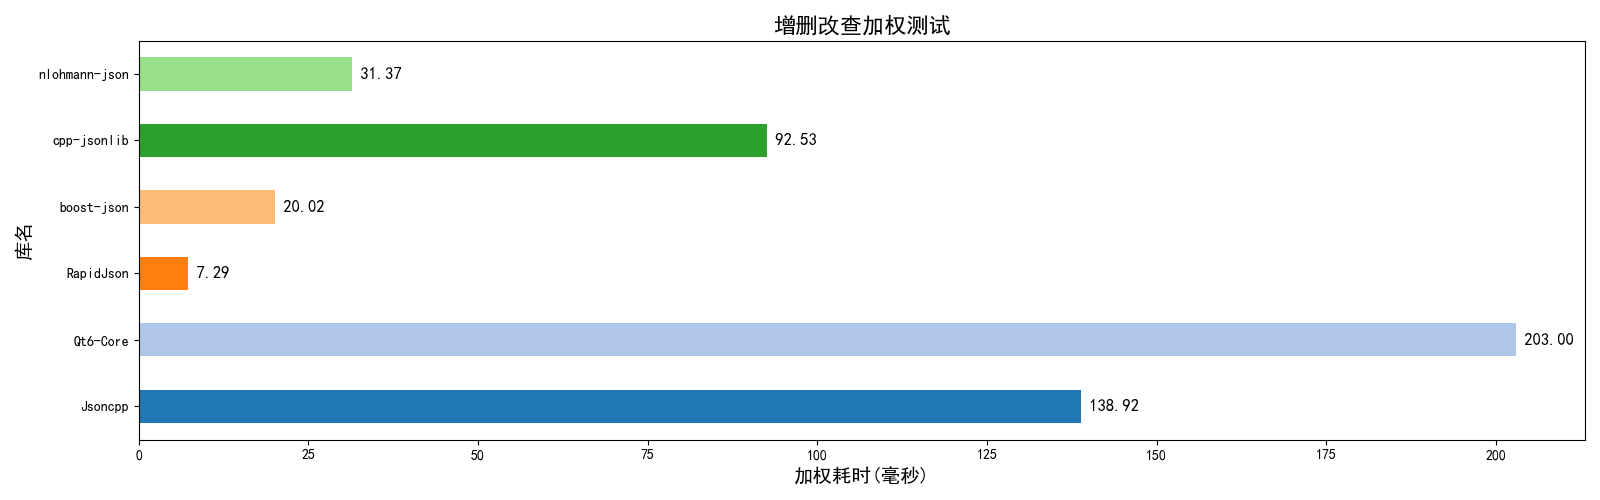
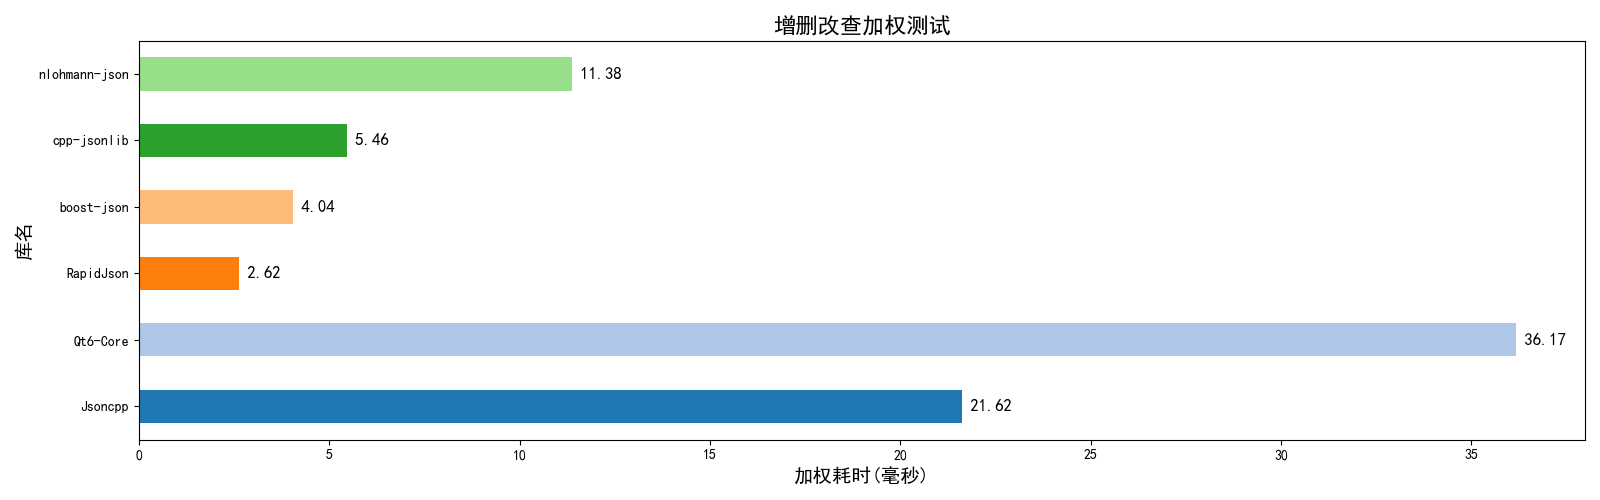
添加Release模式，跟新cpp-jsonlib库测试

diff --git a/test_codes/test_cpp-jsonlib.cpp b/test_codes/test_cpp-jsonlib.cpp
@@ -14,7 +14,7 @@
 class CppJsonlibObj : public JsonBase{
 public:
     // 存放库中JSON可操作对象的类型
-    Json::JsonBasic json;
+    Jsonlib::JsonValue json;
 };
     
 //// 1.2. 重写StringBase类，内部存放你的库的字符串类。如果支持std::string,就直接使用std::string.
@@ -49,39 +49,37 @@ boolenNum : 全体元素中，bool类型的数量
 nullNum : 全体元素中，null的数量
 */ 
 // 例：
-static void get_element_num(const Json::JsonBasic& jsonBasic, JsonCounter& counter){
-    switch (jsonBasic.type())
+static void get_element_num(const Jsonlib::JsonValue& json, JsonCounter& counter){
+    switch (json.type())
     {
-    case Json::JsonType::OBJECT:
+    case Jsonlib::JsonType::OBJECT:
         {
-            const Json::JsonBasic::Map& map = jsonBasic.getMapConst();
-            for(const auto& it : map){
+            for(const auto& it : json.as_object()){
                 get_element_num(it.second, counter);
                 counter.objectChildNum += 1;
             }
             counter.objectNum += 1;
         }
         break;
-    case Json::JsonType::ARRAY:
+    case Jsonlib::JsonType::ARRAY:
         {
-            const Json::JsonBasic::List& list = jsonBasic.getListConst();
-            for(const auto& it : list){
+            for(const auto& it : json.as_array()){
                 get_element_num(it, counter);
                 counter.arrayChildNum += 1;
             }
             counter.arrayNum += 1;
         }
         break;
-    case Json::JsonType::STRING:
+    case Jsonlib::JsonType::STRING:
         counter.stringNum += 1;
         break;
-    case Json::JsonType::NUMBER:
+    case Jsonlib::JsonType::NUMBER:
         counter.numberNum += 1;
         break;
-    case Json::JsonType::BOOLEN:
+    case Jsonlib::JsonType::BOOLEN:
         counter.boolenNum += 1;
         break;
-    case Json::JsonType::ISNULL:
+    case Jsonlib::JsonType::ISNULL:
         counter.nullNum += 1;
         break;
     }
@@ -110,7 +108,7 @@ class CppJsonlibTest : public TestBase{
         auto json_ptr = std::make_shared<CppJsonlibObj>();
         try{
             // 用 JSON子类指针 内部的 JSON数据对象 反序列化字符串
-            json_ptr->json = Json::JsonBasic {str};
+            json_ptr->json = Jsonlib::JsonValue {str};
         }catch(...){ 
             // 转换失败时，务必抛出 FailException异常
             throw FailException {}; 

diff --git a/src/main.cpp b/src/main.cpp
@@ -889,11 +889,15 @@ int main(){
                     try{
                         if(std::string{ "this is a\u03B1string"} == testClass->get_value_as_string(testClass->deserialize( R"_("this is a\u03B1string")_" ))){testScore.string_validity += 5;}
                         else{  ofs << '\n' << "Wrong: The parsing result of <\"this is a\\u03B1string\"> is not equal to <this is a\u03B1string>." << std::endl; }
-                    }catch(...){}
+                    }catch(...){
+                        ofs << '\n' << "error: The parsing string value of <\"this is a\\u03B1string\"> failed." << std::endl;
+                    }
                     try{
                         if(std::string{ "this is a😊string"} == testClass->get_value_as_string(testClass->deserialize( R"_("this is a\uD83D\uDE0Astring")_" ))){testScore.string_validity += 5;}
-                        else{  ofs << '\n' << "Wrong: The parsing result of <\"this is a\\uD83D\\uDE0Astring\"> is not equal to <this is a😊string>." << std::endl; }
-                    }catch(...){}
+                        else{  ofs << '\n' << "Wrong: The parsing string value of <\"this is a\\uD83D\\uDE0Astring\"> failed." << std::endl; }
+                    }catch(...){
+                        ofs << '\n' << "error: The parsing string of <\"this is a\\uD83D\\uDE0Astring\"> is not equal to <this is a😊string>." << std::endl;
+                    }
                     std::cout << '\r' << libName << " >> string validity score: " << testScore.string_validity << "/100" << std::string(10, ' ') << std::endl;
                 }
                 catch(const NotSupportException& e){

diff --git a/README.md b/README.md
@@ -56,7 +56,7 @@ TestBase的子类，也就是各库的测试代码文件，统一放在`test_cod
 cmake --preset <configure-preset-name>
 cmake --build --preset <build-preset-name>
 ```
-就能配置和生成。（推荐Debug模式，没必要Release。）
+就能配置和生成。（推荐Release模式，Debug模式下栈空间消耗大，深层递归解析测试可能失败。）
 
 ### 使用测试结果
 前置： 完成上述步骤并运行可执行程序。
@@ -79,7 +79,7 @@ cmake --build --preset <build-preset-name>
 6. 内存测试依赖`boost-process`库。可以修改`CMakeLists.txt`关闭内存测试，关闭后无需此库。
 
 ## 效果例图
-目前仅比较如下几个库，各有优劣（O2优化下）：
+目前仅比较如下几个库，各有优劣（Release下）：
 1. rapidjson 操作非常繁杂，解析与操作极快，内存占用很低，性能极佳。
 2. boost-json 操作非常简单，现代，会抛出异常，性能较好。 
 3. Qt 操作难度中等，值类型的直接解析 支持性较差，性能中等。
